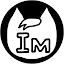
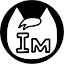
change imcat image

diff --git a/public/index.html b/public/index.html
@@ -11,7 +11,7 @@
 		<!-- google search -->
 		<meta name="google-site-verification" content="HZicODInbBKemFyMPNAa0hZFqxXrvctIKQjKNGjc1g8" />
 
-		<link rel="apple-touch-icon" href="%PUBLIC_URL%/images/imcat_120.png" />
+		<link rel="apple-touch-icon" href="%PUBLIC_URL%/images/imcat.png" />
 		<link rel="stylesheet" href="%PUBLIC_URL%/styles/atom-one-dark.css" />
 		<script src="%PUBLIC_URL%/highlight.pack.js"></script>
 		<!--
